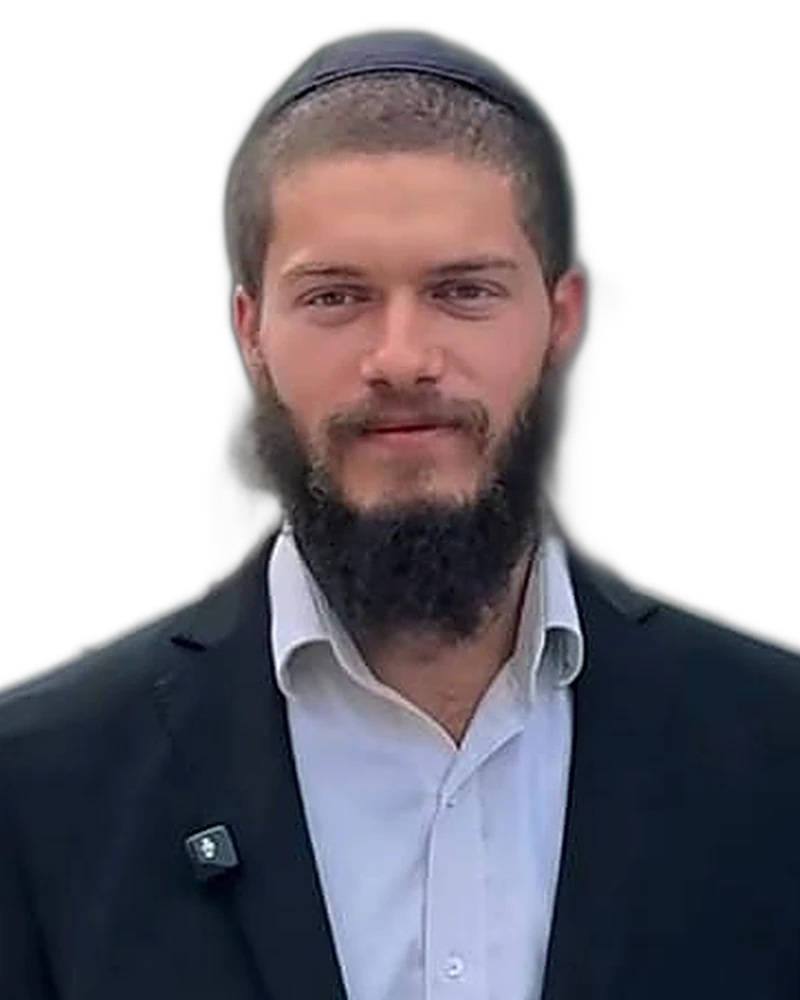
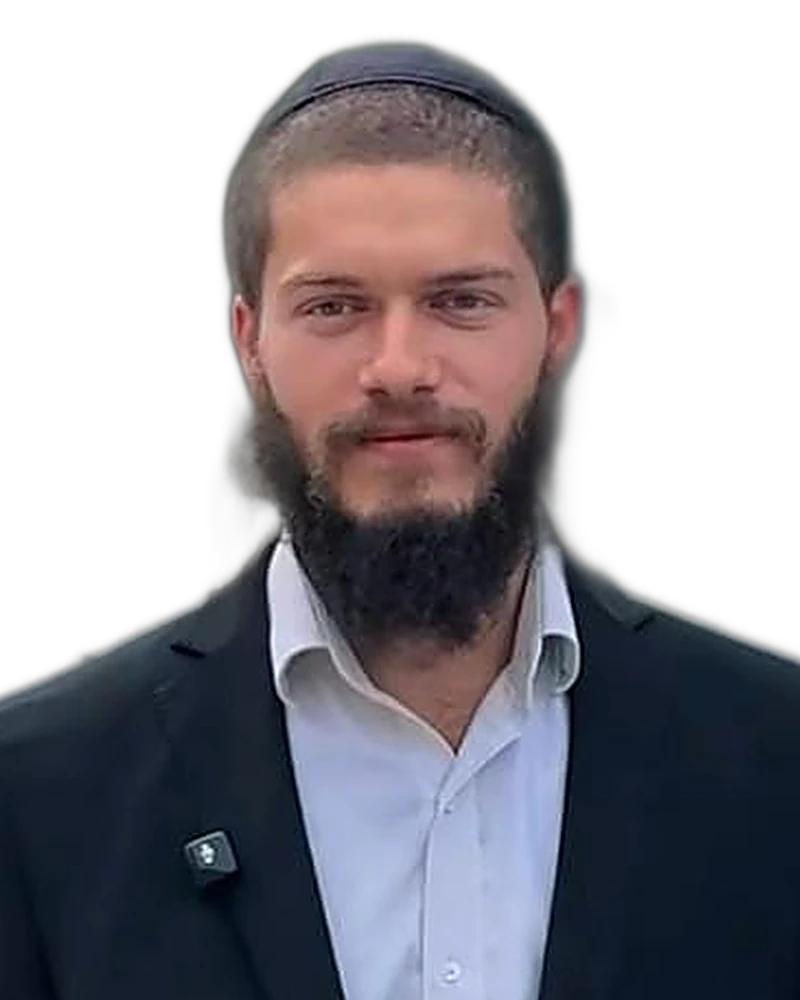
Publish Dovid School website

diff --git a/team/index.html b/team/index.html
@@ -91,7 +91,7 @@
         
       </article></li>
       <li class="tree-item tree-end"><article class="card member">
-        <div class="member-photo"><span aria-hidden="true">מ</span></div>
+        <div class="member-photo"><img src="../assets/img/team/mushki-kirsh.webp" alt="מושקי קירש" width="480" height="600" loading="lazy"></div>
         <h3>מושקי קירש</h3>
         <p class="member-role">גננת ורכזת פדגוגית</p>
         
@@ -109,13 +109,13 @@
         <p class="member-note">בעלת תואר בחינוך</p>
       </article></li>
       <li class="tree-item tree-start"><article class="card member">
-        <div class="member-photo"><span aria-hidden="true">ר</span></div>
+        <div class="member-photo"><img src="../assets/img/team/rose.webp" alt="רוז" width="480" height="600" loading="lazy"></div>
         <h3>רוז</h3>
         <p class="member-role">מורה מקצועית</p>
         <p class="member-note">אנגלית ומתמטיקה</p>
       </article></li>
       <li class="tree-item tree-end"><article class="card member">
-        <div class="member-photo"><span aria-hidden="true">מ</span></div>
+        <div class="member-photo"><img src="../assets/img/team/marka.webp" alt="מרקה" width="480" height="600" loading="lazy"></div>
         <h3>מרקה</h3>
         <p class="member-role">מורה מקצועית</p>
         <p class="member-note">ספרדית, מתמטיקה ומדעים</p>
@@ -127,13 +127,13 @@
         
       </article></li>
       <li class="tree-item tree-end"><article class="card member">
-        <div class="member-photo"><span aria-hidden="true">ט</span></div>
+        <div class="member-photo"><img src="../assets/img/team/tina.webp" alt="טינה" width="480" height="600" loading="lazy"></div>
         <h3>טינה</h3>
         <p class="member-role">גננת</p>
         <p class="member-note">בעלת תואר בחינוך</p>
       </article></li>
       <li class="tree-item tree-start"><article class="card member">
-        <div class="member-photo"><span aria-hidden="true">ק</span></div>
+        <div class="member-photo"><img src="../assets/img/team/claudia.webp" alt="קלאודיה" width="480" height="600" loading="lazy"></div>
         <h3>קלאודיה</h3>
         <p class="member-role">גננת</p>
         <p class="member-note">בעלת תואר בחינוך</p>

diff --git a/es/team/index.html b/es/team/index.html
@@ -91,7 +91,7 @@
         
       </article></li>
       <li class="tree-item tree-end"><article class="card member">
-        <div class="member-photo"><span aria-hidden="true">M</span></div>
+        <div class="member-photo"><img src="../../assets/img/team/mushki-kirsh.webp" alt="Mushki Kirsh" width="480" height="600" loading="lazy"></div>
         <h3>Mushki Kirsh</h3>
         <p class="member-role">Maestra de jardín y coordinadora pedagógica</p>
         
@@ -109,13 +109,13 @@
         <p class="member-note">Título en educación</p>
       </article></li>
       <li class="tree-item tree-start"><article class="card member">
-        <div class="member-photo"><span aria-hidden="true">R</span></div>
+        <div class="member-photo"><img src="../../assets/img/team/rose.webp" alt="Rose" width="480" height="600" loading="lazy"></div>
         <h3>Rose</h3>
         <p class="member-role">Maestra especializada</p>
         <p class="member-note">Inglés y matemáticas</p>
       </article></li>
       <li class="tree-item tree-end"><article class="card member">
-        <div class="member-photo"><span aria-hidden="true">M</span></div>
+        <div class="member-photo"><img src="../../assets/img/team/marka.webp" alt="Marka" width="480" height="600" loading="lazy"></div>
         <h3>Marka</h3>
         <p class="member-role">Maestra especializada</p>
         <p class="member-note">Español, matemáticas y ciencias</p>
@@ -127,13 +127,13 @@
         
       </article></li>
       <li class="tree-item tree-end"><article class="card member">
-        <div class="member-photo"><span aria-hidden="true">T</span></div>
+        <div class="member-photo"><img src="../../assets/img/team/tina.webp" alt="Tina" width="480" height="600" loading="lazy"></div>
         <h3>Tina</h3>
         <p class="member-role">Maestra de jardín</p>
         <p class="member-note">Título en educación</p>
       </article></li>
       <li class="tree-item tree-start"><article class="card member">
-        <div class="member-photo"><span aria-hidden="true">C</span></div>
+        <div class="member-photo"><img src="../../assets/img/team/claudia.webp" alt="Claudia" width="480" height="600" loading="lazy"></div>
         <h3>Claudia</h3>
         <p class="member-role">Maestra de jardín</p>
         <p class="member-note">Título en educación</p>

diff --git a/en/team/index.html b/en/team/index.html
@@ -91,7 +91,7 @@
         
       </article></li>
       <li class="tree-item tree-end"><article class="card member">
-        <div class="member-photo"><span aria-hidden="true">M</span></div>
+        <div class="member-photo"><img src="../../assets/img/team/mushki-kirsh.webp" alt="Mushki Kirsh" width="480" height="600" loading="lazy"></div>
         <h3>Mushki Kirsh</h3>
         <p class="member-role">Preschool teacher and pedagogical coordinator</p>
         
@@ -109,13 +109,13 @@
         <p class="member-note">Degree in education</p>
       </article></li>
       <li class="tree-item tree-start"><article class="card member">
-        <div class="member-photo"><span aria-hidden="true">R</span></div>
+        <div class="member-photo"><img src="../../assets/img/team/rose.webp" alt="Rose" width="480" height="600" loading="lazy"></div>
         <h3>Rose</h3>
         <p class="member-role">Subject teacher</p>
         <p class="member-note">English and math</p>
       </article></li>
       <li class="tree-item tree-end"><article class="card member">
-        <div class="member-photo"><span aria-hidden="true">M</span></div>
+        <div class="member-photo"><img src="../../assets/img/team/marka.webp" alt="Marka" width="480" height="600" loading="lazy"></div>
         <h3>Marka</h3>
         <p class="member-role">Subject teacher</p>
         <p class="member-note">Spanish, math and science</p>
@@ -127,13 +127,13 @@
         
       </article></li>
       <li class="tree-item tree-end"><article class="card member">
-        <div class="member-photo"><span aria-hidden="true">T</span></div>
+        <div class="member-photo"><img src="../../assets/img/team/tina.webp" alt="Tina" width="480" height="600" loading="lazy"></div>
         <h3>Tina</h3>
         <p class="member-role">Preschool teacher</p>
         <p class="member-note">Degree in education</p>
       </article></li>
       <li class="tree-item tree-start"><article class="card member">
-        <div class="member-photo"><span aria-hidden="true">C</span></div>
+        <div class="member-photo"><img src="../../assets/img/team/claudia.webp" alt="Claudia" width="480" height="600" loading="lazy"></div>
         <h3>Claudia</h3>
         <p class="member-role">Preschool teacher</p>
         <p class="member-note">Degree in education</p>
